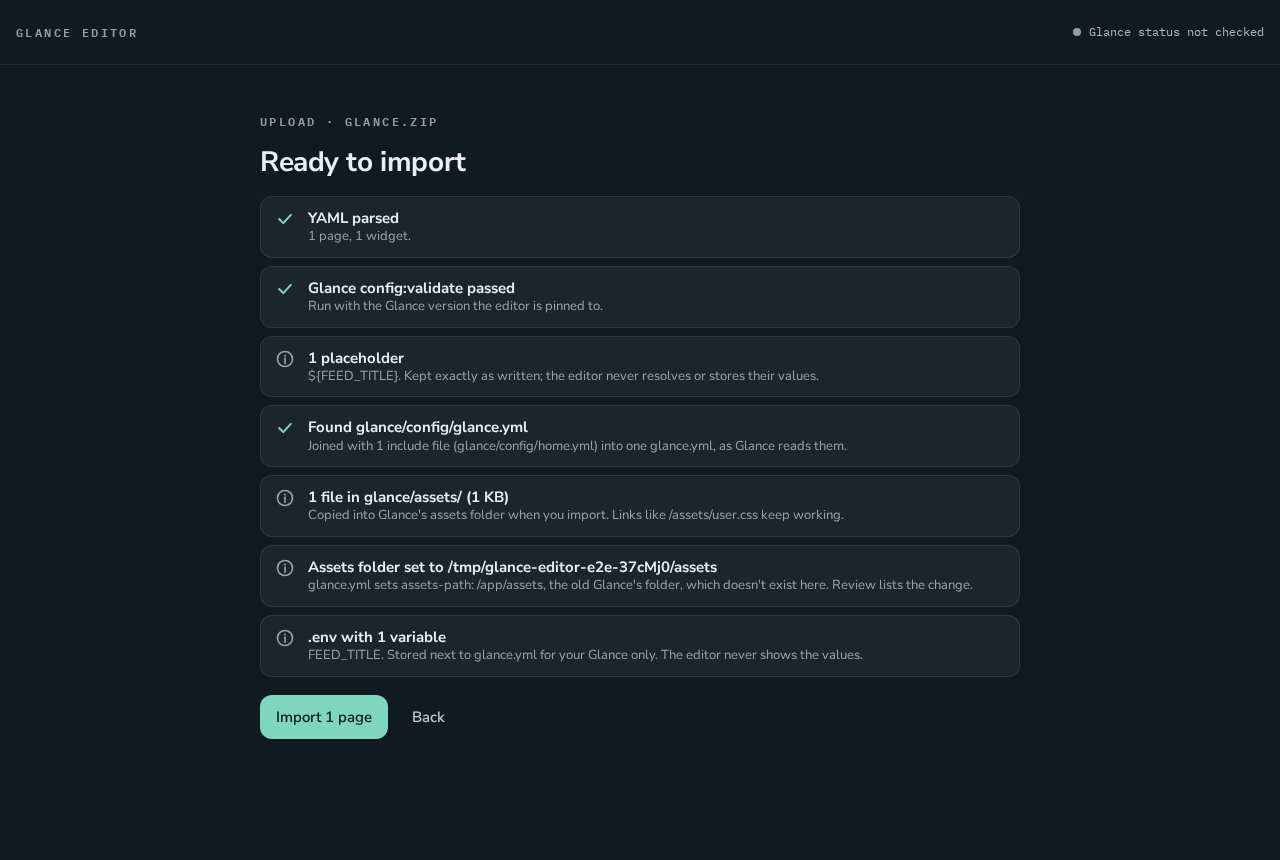
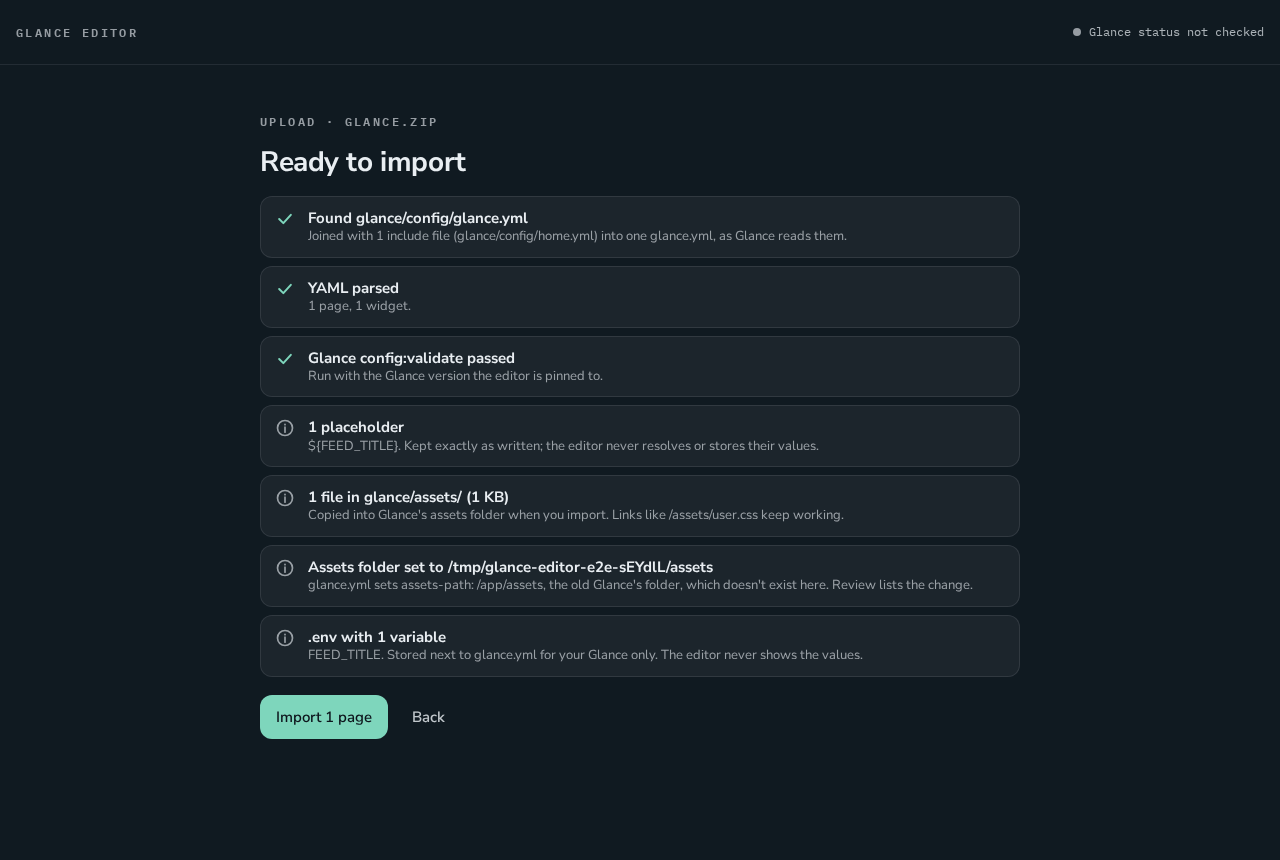
fix(import): explain a quoted value wrapped onto an unindented line
Glance reads the line break as a space; YAML refuses it with only "Missing closing
quote". The check now names the lines, shows what Glance would read, and for an
upload names the include file and its own line. CRLF files included.

diff --git a/packages/server/src/editor.ts b/packages/server/src/editor.ts
@@ -470,6 +470,12 @@ export class Editor {
 
     const check = await this.checkText(text, live !== null, true);
     if (check.report) check.report.includes = found.includes;
+    // Line numbers count in the joined text; name the uploaded file and its own line when an include has the line.
+    if (!check.parse.ok && check.parse.line !== null && found.includes.length) {
+      const wanted = text.split("\n")[check.parse.line - 1]?.trim();
+      const hits = [...found.yaml].flatMap(([p, d]) => d.toString("utf8").split("\n").flatMap((l, i) => (wanted && l.trim() === wanted ? [`${p}, line ${i + 1}`] : [])));
+      if (hits.length === 1) check.parse = { ...check.parse, message: `${check.parse.message} (In the zip: ${hits[0]}.)` };
+    }
     const d = (await this.importVersionText(text)).dashboard;
     const from = d?.server?.["assets-path"] ?? null;
     const assets = findAssets(z.files, found.config, from ?? undefined);
@@ -935,12 +941,52 @@ function parseError(text: string): ImportCheck["parse"] & { ok: false } | null {
   const offset = e.pos?.[0];
   const line = offset === undefined ? null : text.slice(0, offset).split("\n").length;
   const lines = text.split("\n");
-  const snippet = line === null ? "" : lines
+  const snippet = line === null ? "" : snippetAt(lines, line);
+  const split = splitQuoted(lines);
+  if (split) return { ok: false, line: split.line, message: split.message, snippet: snippetAt(lines, split.line) };
+  return { ok: false, line, message: e.message.split("\n")[0]!, snippet };
+}
+
+function snippetAt(lines: string[], line: number): string {
+  return lines
     .map((l, i) => ({ n: i + 1, l }))
     .filter(({ n }) => n >= line - 2 && n <= line + 1)
     .map(({ n, l }) => `${n === line ? ">" : " "} ${String(n).padStart(String(line + 1).length)} | ${l.replaceAll("\t", "→   ")}`)
     .join("\n");
-  return { ok: false, line, message: e.message.split("\n")[0]!, snippet };
+}
+
+/**
+ * A quoted value broken over two lines whose second part starts no further in than its key, usually a long line
+ * wrapped by a text editor:
+ *     url: 'https://example.org/a/very/long/pa
+ *   th/to/page'
+ * YAML doesn't allow it, so the editor can't read the file and its parser only says "Missing closing quote". Glance
+ * (v0.8.6, tested 2026-10-14) accepts it and reads the line break as a space, so the value Glance uses has a space
+ * in it. Explain that instead.
+ */
+function splitQuoted(raw: string[]): { line: number; message: string } | null {
+  const lines = raw.map((l) => l.replace(/\r$/, ""));
+  const indent = (l: string) => l.length - l.trimStart().length;
+  for (let i = 0; i < lines.length - 1; i++) {
+    const m = /^(\s*)(?:-\s+)?(?:[^'"#\s][^#]*?:\s+)?(['"])(.*)$/.exec(lines[i]!);
+    if (!m) continue;
+    const q = m[2]!;
+    const rest = m[3]!;
+    // Closed on this line? ('' is an escaped quote in single quotes; \ escapes in double quotes.)
+    const closed = q === "'" ? /^(?:[^']|'')*'/.test(rest) : /^(?:[^"\\]|\\.)*"/.test(rest);
+    if (closed) continue;
+    let j = i + 1;
+    while (j < lines.length && lines[j]!.trim() === "") j++;
+    if (j >= lines.length || indent(lines[j]!) > m[1]!.length) continue;
+    const first = rest.trimEnd();
+    const second = lines[j]!.trim().replace(new RegExp(`${q}.*$`), "");
+    const shown = `${first.length > 30 ? "…" : ""}${first.slice(-30)} ${second.slice(0, 30)}${second.length > 30 ? "…" : ""}`;
+    return {
+      line: j + 1,
+      message: `A quoted value is split over lines ${i + 1} and ${j + 1}, and its second part isn't indented, which YAML doesn't allow. Glance accepts it but reads the line break as a space (${q}${shown}${q}), which is probably not what you meant. Join the two lines into one: use Fix the YAML here, or fix your file and upload it again.`,
+    };
+  }
+  return null;
 }
 
 /** "H S L" as the editor writes it: whole numbers, hue ≤ 360, saturation and lightness ≤ 100. */

diff --git a/test/e2e/flows.spec.ts b/test/e2e/flows.spec.ts
@@ -99,6 +99,25 @@ test.describe("Flow 1b: upload your Glance folder as a zip", () => {
     expect(editor.live()).not.toContain("$include");
   });
 
+  test("a long line wrapped by a text editor: the message says which lines and what Glance would read", async ({ page, editor }) => {
+    const home = "- name: Home\n  columns:\n    - size: full\n      widgets:\n        - type: bookmarks\n          groups:\n            - links:\n                - title: Example\n                  url: 'https://example.org/0123456789abcdef/w\nexample.net/dns/records'\n";
+    await page.goto(editor.url);
+    await page.locator("#zipfile").setInputFiles({ name: "glance.zip", mimeType: "application/zip", buffer: makeZip([
+      { name: "glance/config/glance.yml", data: "pages:\n  $include: home.yml\n" },
+      { name: "glance/config/home.yml", data: home },
+    ]) });
+    await expect(page.getByRole("heading", { name: "glance.yml has a problem" })).toBeVisible();
+    await expect(page.getByText(/A quoted value is split over lines 10 and 11/)).toBeVisible();
+    await expect(page.getByText(/In the zip: glance\/config\/home\.yml, line 10\./)).toBeVisible();
+    await shot(page, "upload-wrapped-line");
+    await page.getByRole("button", { name: "Fix the YAML here" }).click();
+    const box = page.getByLabel("glance.yml");
+    // config:print indents an included file's lines under the include, so the second part has a little indent here.
+    await box.fill((await box.inputValue()).replace(/\/w\n\s*example/, "/wexample"));
+    await page.getByRole("button", { name: "Check again" }).click();
+    await expect(page.getByRole("heading", { name: "Ready to import" })).toBeVisible();
+  });
+
   test("a zip without glance.yml: says what to zip; Choose another zip", async ({ page, editor }) => {
     await page.goto(editor.url);
     await page.locator("#zipfile").setInputFiles({ name: "photos.zip", mimeType: "application/zip", buffer: makeZip([{ name: "a.txt", data: "x" }]) });

diff --git a/packages/server/test/import-check.test.ts b/packages/server/test/import-check.test.ts
@@ -113,4 +113,22 @@ describe("can't write glance.yml (design 03)", () => {
     expect((await e.state()).draft!.pages[0]!.name).toBe("Renamed");
     expect(await e.save()).toMatchObject({ status: "saved", version: 1 }); // numbering has no gap
   });
+  it("a quoted value wrapped onto an unindented line: says which lines, and what Glance would read; joining them passes", async () => {
+    // A long line wrapped by a text editor. Glance v0.8.6 accepts it and reads the break as a space; YAML doesn't.
+    const head = "pages:\n  - name: Home\n    columns:\n      - size: full\n        widgets:\n          - type: bookmarks\n            groups:\n              - links:\n                  - title: Example\n";
+    for (const [q, nl] of [["'", "\n"], ['"', "\n"], ["'", "\r\n"]] as const) {
+      const s = setup();
+      mkdirSync(dirname(s.configPath), { recursive: true });
+      s.write(`${head}                    url: ${q}https://example.org/0123456789abcdef/w${nl}example.net/dns/records${q}${nl}`.replaceAll(/\r?\n/g, nl));
+      const e = await track(s);
+      const c = await e.checkImport();
+      expect(c.parse).toMatchObject({ ok: false, line: 11 });
+      const message = c.parse.ok ? "" : c.parse.message;
+      expect(message).toContain("split over lines 10 and 11");
+      expect(message).toContain(`(${q}…example.org/0123456789abcdef/w example.net/dns/records${q})`);
+      expect(c.parse.ok === false && c.parse.snippet).toContain("> 11 | example.net");
+      const joined = (c.text ?? "").replace(/\/w\r?\nexample/, "/wexample");
+      expect((await e.checkImport(joined)).ok).toBe(true);
+    }
+  });
 });

diff --git a/packages/server/test/upload.test.ts b/packages/server/test/upload.test.ts
@@ -163,6 +163,18 @@ describe("upload a Glance folder", () => {
   });
 });
 
+describe("upload: a quoted value wrapped onto an unindented line in an include file", () => {
+  it("names the file in the zip and its own line, besides the joined text's lines", async () => {
+    const e = await track(fresh());
+    const home = HOME_YML.replace("url: https://example.org/feed", "url: 'https://example.org/a/very/long/pa\nth/feed'");
+    const c = await e.checkUpload(makeZip(template().map((x) => (x.name.endsWith("home.yml") ? { ...x, data: home } : x))));
+    expect(c.ok).toBe(false);
+    const message = c.parse.ok ? "" : c.parse.message;
+    expect(message).toContain("split over lines");
+    expect(message).toContain("(In the zip: glance/config/home.yml, line 9.)");
+  });
+});
+
 describe("importing the data folder's glance.yml from another Glance", () => {
   it("assets-path /app/assets passes the check and becomes this container's folder (Glance won't start otherwise)", async () => {
     const s = setup();

diff --git a/docs/lessons.md b/docs/lessons.md
@@ -222,3 +222,8 @@ overwrites labels with map values. **Do:** treat source reading as a hypothesis 
 - Even root inside the container got "Permission denied" reading another user's `/proc/<pid>/environ` (again: see
   Unraid templates above). The all-in-one test reads the editor's environment as the editor's user, and checks for a
   value, not a name: the editor is given the names of Glance's variables on purpose.
+- A quoted value wrapped onto an unindented line (a long line hard-wrapped by a text editor) is accepted by Glance
+  v0.8.6, which reads the line break as a space (tested: the link gets `%20` in it), but isn't valid YAML, and the
+  `yaml` library refuses it with only "Missing closing quote". The import check now explains it and names the lines.
+  `config:print` indents an included file's lines under its `$include`, so line numbers in the joined text differ from
+  the uploaded file's: the upload check names the file and its own line too.
